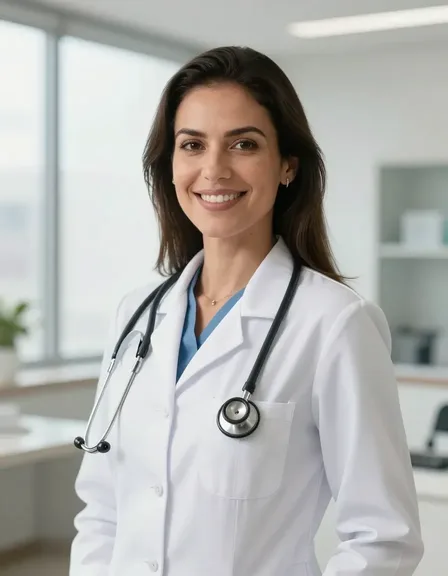
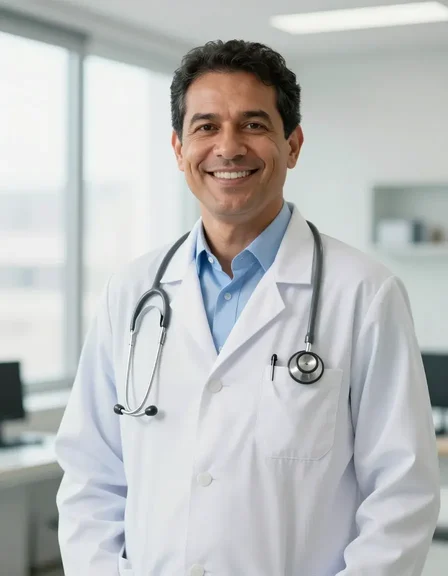
publicacao 2026-11-19 22:26

diff --git a/empresa/inicio.html b/empresa/inicio.html
@@ -404,8 +404,8 @@ a:focus-visible,button:focus-visible{outline:3px solid var(--accent);outline-off
     <div class="colagem arte">
       <div class="halo" aria-hidden="true"></div><div class="anel a1" aria-hidden="true"></div><div class="anel a2" aria-hidden="true"></div>
       <img class="sim" src="simbolo-saude-escuro.png" alt="" width="520" height="520" loading="lazy" decoding="async">
-      <div class="mosaico"><div class="col"><figure class="rt"><img src="img/retrato-fisioterapia.webp" width="448" height="576" decoding="async" alt="Ilustração: fisioterapeuta de jaleco orientando uma paciente"><figcaption>Fisioterapia</figcaption></figure><figure class="rt"><img src="img/retrato-fonoaudiologia.webp" width="448" height="576" decoding="async" alt="Ilustração: fonoaudióloga mostrando cartões a uma criança"><figcaption>Fonoaudiologia</figcaption></figure></div><div class="col meio"><figure class="rt"><img src="img/retrato-psicologia.webp" width="448" height="576" decoding="async" alt="Ilustração: psicólogo com caderno em consultório"><figcaption>Psicologia</figcaption></figure><figure class="rt"><img src="img/retrato-nutricao.webp" width="448" height="576" decoding="async" alt="Ilustração: nutricionista com prato de legumes"><figcaption>Nutrição</figcaption></figure><figure class="rt"><img src="img/retrato-medicina.webp" width="448" height="576" decoding="async" alt="Ilustração: médica de jaleco com estetoscópio"><figcaption>Medicina</figcaption></figure></div><div class="col"><figure class="rt"><img src="img/retrato-terapia-ocupacional.webp" width="448" height="576" decoding="async" alt="Ilustração: terapeuta ocupacional exercitando as mãos de uma idosa"><figcaption>Terapia ocupacional</figcaption></figure><figure class="rt"><img src="img/retrato-odontologia.webp" width="448" height="576" decoding="async" alt="Ilustração: dentista sorrindo em consultório odontológico"><figcaption>Odontologia</figcaption></figure></div></div>
-      <div class="mgrp mga"><figure><img src="img/retrato-fisioterapia.webp" width="448" height="576" loading="lazy" decoding="async" alt="Ilustração: fisioterapeuta de jaleco orientando uma paciente"><figcaption>Fisioterapia</figcaption></figure><figure><img src="img/retrato-psicologia.webp" width="448" height="576" loading="lazy" decoding="async" alt="Ilustração: psicólogo com caderno em consultório"><figcaption>Psicologia</figcaption></figure><figure><img src="img/retrato-nutricao.webp" width="448" height="576" loading="lazy" decoding="async" alt="Ilustração: nutricionista com prato de legumes"><figcaption>Nutrição</figcaption></figure><figure><img src="img/retrato-medicina.webp" width="448" height="576" loading="lazy" decoding="async" alt="Ilustração: médica de jaleco com estetoscópio"><figcaption>Medicina</figcaption></figure></div><div class="mgrp mgb"><figure><img src="img/retrato-fonoaudiologia.webp" width="448" height="576" loading="lazy" decoding="async" alt="Ilustração: fonoaudióloga mostrando cartões a uma criança"><figcaption>Fonoaudiologia</figcaption></figure><figure><img src="img/retrato-terapia-ocupacional.webp" width="448" height="576" loading="lazy" decoding="async" alt="Ilustração: terapeuta ocupacional exercitando as mãos de uma idosa"><figcaption>Terapia ocupacional</figcaption></figure><figure><img src="img/retrato-odontologia.webp" width="448" height="576" loading="lazy" decoding="async" alt="Ilustração: dentista sorrindo em consultório odontológico"><figcaption>Odontologia</figcaption></figure></div>
+      <div class="mosaico"><div class="col"><figure class="rt"><img src="img/retrato-fisioterapia.webp" width="448" height="576" decoding="async" alt="Ilustração: fisioterapeuta de jaleco orientando uma paciente"><figcaption>Fisioterapia</figcaption></figure><figure class="rt"><img src="img/retrato-fonoaudiologia.webp" width="448" height="576" decoding="async" alt="Ilustração: fonoaudióloga mostrando cartões a uma criança"><figcaption>Fonoaudiologia</figcaption></figure></div><div class="col meio"><figure class="rt"><img src="img/retrato-psicologia.webp" width="448" height="576" decoding="async" alt="Ilustração: psicólogo com caderno em consultório"><figcaption>Psicologia</figcaption></figure><figure class="rt"><img src="img/retrato-nutricao.webp" width="448" height="576" decoding="async" alt="Ilustração: nutricionista com prato de legumes"><figcaption>Nutrição</figcaption></figure><figure class="rt"><img src="img/retrato-medicina.webp" width="448" height="576" decoding="async" alt="Ilustração: médico de jaleco com estetoscópio"><figcaption>Medicina</figcaption></figure></div><div class="col"><figure class="rt"><img src="img/retrato-terapia-ocupacional.webp" width="448" height="576" decoding="async" alt="Ilustração: terapeuta ocupacional exercitando as mãos de uma idosa"><figcaption>Terapia ocupacional</figcaption></figure><figure class="rt"><img src="img/retrato-odontologia.webp" width="448" height="576" decoding="async" alt="Ilustração: dentista sorrindo em consultório odontológico"><figcaption>Odontologia</figcaption></figure></div></div>
+      <div class="mgrp mga"><figure><img src="img/retrato-fisioterapia.webp" width="448" height="576" loading="lazy" decoding="async" alt="Ilustração: fisioterapeuta de jaleco orientando uma paciente"><figcaption>Fisioterapia</figcaption></figure><figure><img src="img/retrato-psicologia.webp" width="448" height="576" loading="lazy" decoding="async" alt="Ilustração: psicólogo com caderno em consultório"><figcaption>Psicologia</figcaption></figure><figure><img src="img/retrato-nutricao.webp" width="448" height="576" loading="lazy" decoding="async" alt="Ilustração: nutricionista com prato de legumes"><figcaption>Nutrição</figcaption></figure><figure><img src="img/retrato-medicina.webp" width="448" height="576" loading="lazy" decoding="async" alt="Ilustração: médico de jaleco com estetoscópio"><figcaption>Medicina</figcaption></figure></div><div class="mgrp mgb"><figure><img src="img/retrato-fonoaudiologia.webp" width="448" height="576" loading="lazy" decoding="async" alt="Ilustração: fonoaudióloga mostrando cartões a uma criança"><figcaption>Fonoaudiologia</figcaption></figure><figure><img src="img/retrato-terapia-ocupacional.webp" width="448" height="576" loading="lazy" decoding="async" alt="Ilustração: terapeuta ocupacional exercitando as mãos de uma idosa"><figcaption>Terapia ocupacional</figcaption></figure><figure><img src="img/retrato-odontologia.webp" width="448" height="576" loading="lazy" decoding="async" alt="Ilustração: dentista sorrindo em consultório odontológico"><figcaption>Odontologia</figcaption></figure></div>
       <div class="provas">
       <div class="fc fc1" aria-hidden="true"><span class="ic2"><svg><use href="#i-recibo"/></svg></span><span><b>Recibo emitido</b><small>Receita Saúde ✓</small></span></div>
       <div class="fc fc2" aria-hidden="true"><span class="ic2"><svg><use href="#i-doc"/></svg></span><span><b>Carnê-Leão calculado</b><small>vence em 30/11</small></span></div>
@@ -429,7 +429,7 @@ a:focus-visible,button:focus-visible{outline:3px solid var(--accent);outline-off
     </a>
     <a class="grande" data-cta="card-empresa" href="index.html" id="g-emp">
       <div class="cab"><span class="ic2" aria-hidden="true"><svg><use href="#i-predio"/></svg></span><h2>Tenho empresa de saúde (CNPJ)</h2></div>
-      <div class="vis vis-e"><span class="avs"><img src="img/avatar-nutricao.webp" width="160" height="160" loading="lazy" decoding="async" alt="Ilustração: nutricionista"><img src="img/avatar-medicina.webp" width="160" height="160" loading="lazy" decoding="async" alt="Ilustração: médica"><img src="img/avatar-odontologia.webp" width="160" height="160" loading="lazy" decoding="async" alt="Ilustração: dentista"></span><span class="pop">Nota fiscal emitida ✓</span><span class="pop p2">Contas em dia ✓</span></div>
+      <div class="vis vis-e"><span class="avs"><img src="img/avatar-nutricao.webp" width="160" height="160" loading="lazy" decoding="async" alt="Ilustração: nutricionista"><img src="img/avatar-medicina.webp" width="160" height="160" loading="lazy" decoding="async" alt="Ilustração: médico"><img src="img/avatar-odontologia.webp" width="160" height="160" loading="lazy" decoding="async" alt="Ilustração: dentista"></span><span class="pop">Nota fiscal emitida ✓</span><span class="pop p2">Contas em dia ✓</span></div>
       <p class="quem">Simples Nacional, até 3 funcionários.</p>
       <ul><li>Contabilidade completa e imposto do Simples</li><li>Folha de pagamento (em breve)</li><li>Financeiro e resumo de uma página por mês</li><li>Imposto de renda dos sócios</li></ul>
       <span class="cta">Ver o plano para empresa</span>
